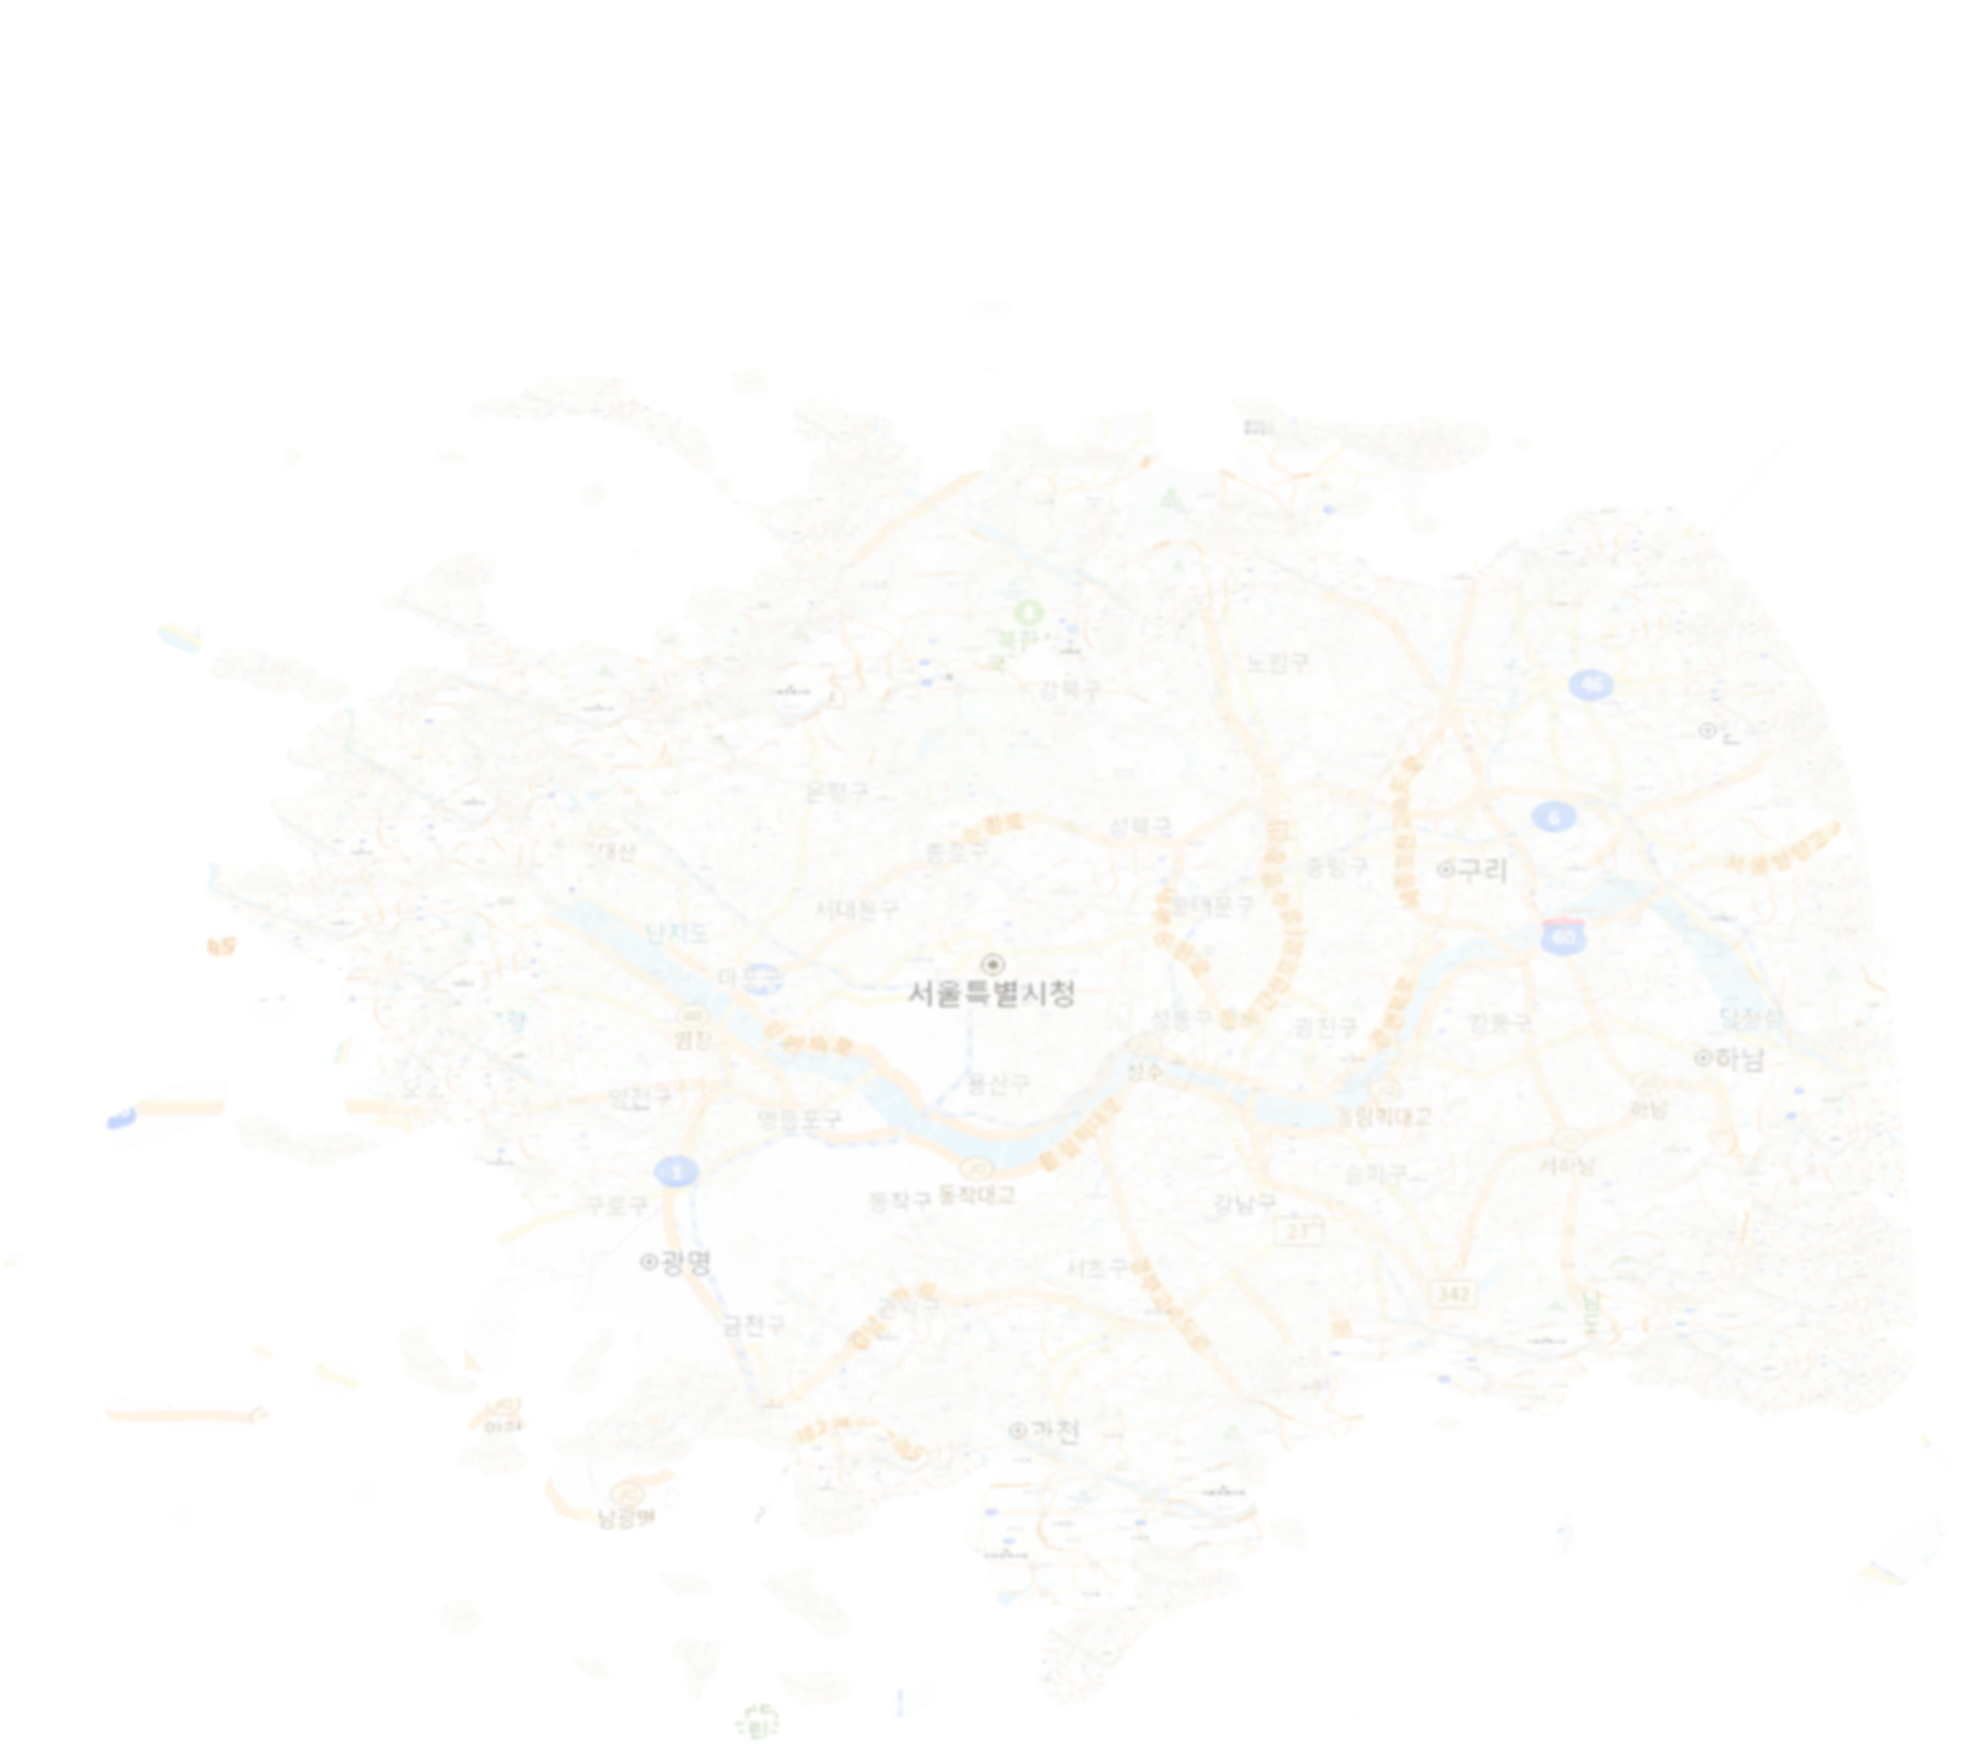
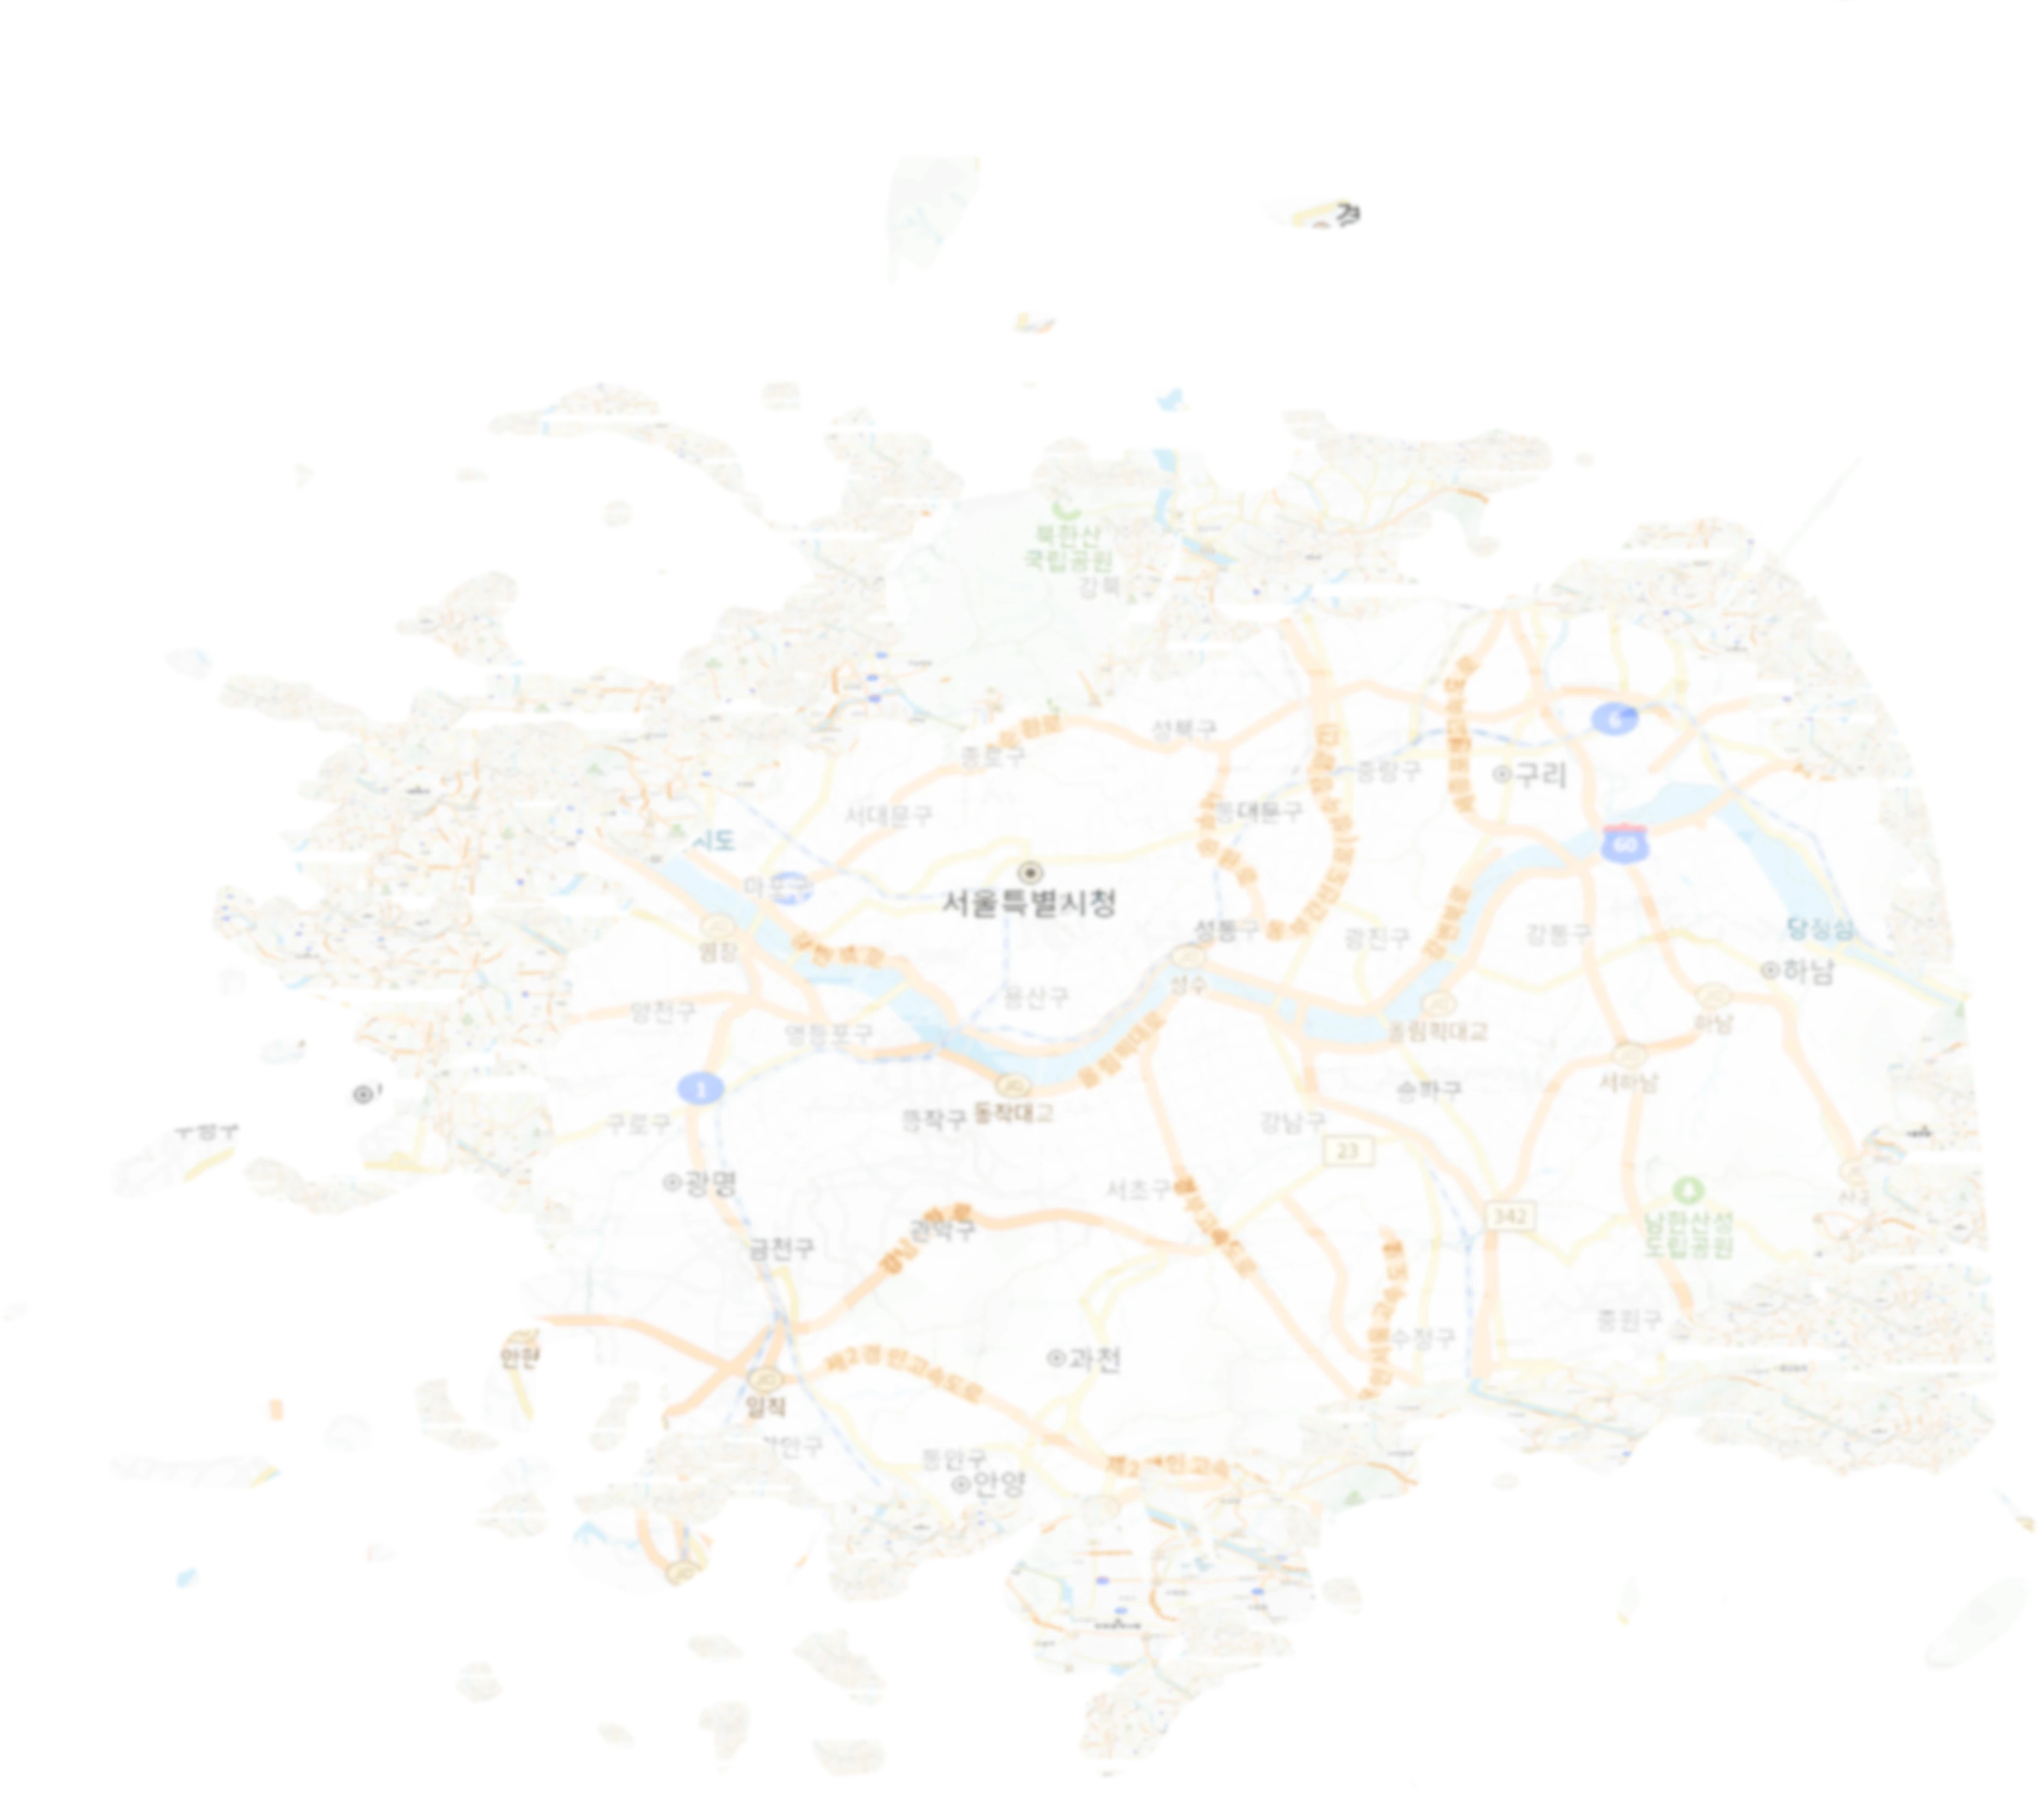
fix: 홈 화면 LCP 및 반응형 레이아웃 개선 (#284)
* style: HOME 페이지 반응형 레이아웃 조정

- 히어로 이미지 위치와 로딩 우선순위 조정
- 이미지 파일 용량 감축

* style: 홈 반응형 타이포그래피와 캐러셀 크기 조정

- sm 구간의 홈 섹션 타이포그래피 단계 추가
- 다가오는 버스킹 캐러셀에 sm 카드 수와 간격 설정 적용
- 공통 캐러셀 컴포넌트에 sm 반응형 perView와 gap 지원

diff --git a/src/components/carousel/embla-card-carousel.tsx b/src/components/carousel/embla-card-carousel.tsx
@@ -12,6 +12,14 @@ type ProgressVariant = 'thumb' | 'fill';
 
 export interface ResponsivePerView {
   base: number;
+  sm?: number;
+  md?: number;
+  lg?: number;
+}
+
+interface ResponsiveNumber {
+  base: number;
+  sm?: number;
   md?: number;
   lg?: number;
 }
@@ -38,7 +46,7 @@ export interface EmblaCardCarouselProps {
   slidesToScroll?: number;
   loop?: boolean;
 
-  gapPx?: number;
+  gapPx?: number | ResponsiveNumber;
 
   showProgress?: boolean;
   progressVariant?: ProgressVariant;
@@ -65,9 +73,10 @@ function normalizePerView(value: number) {
   return Math.max(1, Math.min(value, 12));
 }
 
-function useResponsivePerView(base: number, md: number, lg: number) {
+function useResponsivePerView(base: number, sm: number, md: number, lg: number) {
   const subscribe = useCallback((onStoreChange: () => void) => {
     const mediaQueries = [
+      window.matchMedia('(min-width: 36rem)'),
       window.matchMedia('(min-width: 48rem)'),
       window.matchMedia('(min-width: 64rem)'),
     ];
@@ -88,8 +97,12 @@ function useResponsivePerView(base: number, md: number, lg: number) {
       return md;
     }
 
+    if (window.matchMedia('(min-width: 36rem)').matches) {
+      return sm;
+    }
+
     return base;
-  }, [base, lg, md]);
+  }, [base, lg, md, sm]);
 
   return useSyncExternalStore(subscribe, getSnapshot, () => base);
 }
@@ -177,10 +190,16 @@ export function EmblaCardCarousel({
   );
 
   const safePerViewBase = normalizePerView(typeof perView === 'number' ? perView : perView.base);
-  const safePerViewMd = normalizePerView(typeof perView === 'number' ? perView : (perView.md ?? safePerViewBase));
+  const safePerViewSm = normalizePerView(typeof perView === 'number' ? perView : (perView.sm ?? safePerViewBase));
+  const safePerViewMd = normalizePerView(typeof perView === 'number' ? perView : (perView.md ?? safePerViewSm));
   const safePerViewLg = normalizePerView(typeof perView === 'number' ? perView : (perView.lg ?? safePerViewMd));
-  const safePerView = useResponsivePerView(safePerViewBase, safePerViewMd, safePerViewLg);
+  const safePerView = useResponsivePerView(safePerViewBase, safePerViewSm, safePerViewMd, safePerViewLg);
   const hasScrollable = totalSlides > safePerView;
+
+  const safeGapBase = typeof gapPx === 'number' ? gapPx : gapPx.base;
+  const safeGapSm = typeof gapPx === 'number' ? gapPx : (gapPx.sm ?? safeGapBase);
+  const safeGapMd = typeof gapPx === 'number' ? gapPx : (gapPx.md ?? safeGapSm);
+  const safeGapLg = typeof gapPx === 'number' ? gapPx : (gapPx.lg ?? safeGapMd);
 
   const thumbWidthPct
     = progressVariant === 'thumb'
@@ -218,15 +237,24 @@ export function EmblaCardCarousel({
     <section
       className={cn(
         'group relative w-full',
+        '[--carousel-gap:var(--carousel-gap-base)]',
         '[--carousel-per-view:var(--carousel-per-view-base)]',
+        'sm:[--carousel-gap:var(--carousel-gap-sm)]',
+        'sm:[--carousel-per-view:var(--carousel-per-view-sm)]',
+        'md:[--carousel-gap:var(--carousel-gap-md)]',
         'md:[--carousel-per-view:var(--carousel-per-view-md)]',
+        'lg:[--carousel-gap:var(--carousel-gap-lg)]',
         'lg:[--carousel-per-view:var(--carousel-per-view-lg)]',
         className,
       )}
       style={
         {
-          '--carousel-gap': `${gapPx}px`,
+          '--carousel-gap-base': `${safeGapBase}px`,
+          '--carousel-gap-sm': `${safeGapSm}px`,
+          '--carousel-gap-md': `${safeGapMd}px`,
+          '--carousel-gap-lg': `${safeGapLg}px`,
           '--carousel-per-view-base': String(safePerViewBase),
+          '--carousel-per-view-sm': String(safePerViewSm),
           '--carousel-per-view-md': String(safePerViewMd),
           '--carousel-per-view-lg': String(safePerViewLg),
         } as React.CSSProperties

diff --git a/src/app/(main)/_components/home-hero-section.tsx b/src/app/(main)/_components/home-hero-section.tsx
@@ -27,29 +27,27 @@ export function HomeHeroSection({ mapBgSrc, heroIllustSrc }: HomeHeroSectionProp
   };
 
   return (
-    <section className={`
-      w-full bg-[radial-gradient(circle_at_center,#FAFAFA_0%,#FFF7F2CC_100%)]
-    `}
-    >
+    <section className="w-full overflow-hidden bg-white">
       <MainLayout className={`
         relative z-10 px-5.25 pt-8 pb-16
         md:px-6 md:pt-14 md:pb-20
-        lg:flex lg:min-h-250 lg:items-center lg:py-0
+        lg:flex lg:min-h-190 lg:items-start lg:pt-28 lg:pb-24
       `}
       >
         <div className={`
           grid grid-cols-1 gap-8
-          lg:grid-cols-12 lg:items-center lg:gap-6
+          lg:grid-cols-12 lg:items-start lg:gap-0
         `}
         >
           <div className={`
             order-2
-            lg:order-1 lg:col-span-6
+            lg:order-1 lg:col-span-5 lg:pt-16
           `}
           >
             <h2 className={`
-              typo-title-b-1 leading-[1.15] font-bold tracking-[-0.02em]
-              text-gray-900
+              typo-title-b-4 text-gray-900
+              sm:typo-title-b-3
+              md:typo-title-b-1
             `}
             >
               <span className={`
@@ -69,7 +67,9 @@ export function HomeHeroSection({ mapBgSrc, heroIllustSrc }: HomeHeroSectionProp
             </h2>
 
             <p className={`
-              mt-6 typo-title-r-4 leading-[1.6] text-gray-700
+              mt-3 typo-caption-r-1 text-black
+              sm:typo-body-sb-3
+              md:mt-6 md:typo-title-r-4 md:text-gray-700
               lg:whitespace-nowrap
             `}
             >
@@ -78,7 +78,10 @@ export function HomeHeroSection({ mapBgSrc, heroIllustSrc }: HomeHeroSectionProp
 
             <form
               onSubmit={handleSubmit}
-              className="mt-10 w-full max-w-115.75"
+              className={`
+                mt-5 w-full max-w-115.75
+                md:mt-10
+              `}
             >
               <SearchInput
                 theme="white"
@@ -92,21 +95,22 @@ export function HomeHeroSection({ mapBgSrc, heroIllustSrc }: HomeHeroSectionProp
 
           <div className={`
             relative order-1
-            lg:order-2 lg:col-span-6
+            lg:order-2 lg:col-span-7
           `}
           >
             <div className={`
               relative h-80 w-full overflow-visible
               sm:h-105
               md:h-125
-              lg:h-180
+              lg:h-185
             `}
             >
               <Image
                 src={mapBgSrc}
                 alt=""
                 fill
-                priority
+                sizes="(max-width: 1023px) 100vw, 1200px"
+                quality={45}
                 className="object-contain opacity-50 blur-[2px]"
               />
 
@@ -117,7 +121,7 @@ export function HomeHeroSection({ mapBgSrc, heroIllustSrc }: HomeHeroSectionProp
               >
                 <div className={`
                   relative h-full w-full
-                  lg:h-185 lg:w-265
+                  lg:h-210 lg:w-320 lg:translate-x-12 lg:-translate-y-30
                 `}
                 >
                   <Image
@@ -125,6 +129,9 @@ export function HomeHeroSection({ mapBgSrc, heroIllustSrc }: HomeHeroSectionProp
                     alt="UNIBUSK 지도 일러스트"
                     fill
                     priority
+                    fetchPriority="high"
+                    sizes="(max-width: 1023px) 100vw, 1280px"
+                    quality={70}
                     className="object-contain"
                   />
                 </div>

diff --git a/src/app/(main)/_components/home-promo-section.tsx b/src/app/(main)/_components/home-promo-section.tsx
@@ -28,8 +28,22 @@ export function HomePromoSection({ ctaHref }: HomePromoSectionProps) {
       `}
       >
         <div className="text-center">
-          <h2 className="typo-title-sb-2 text-black">공연을 홍보해 보세요</h2>
-          <p className="mt-3.75 typo-title-r-4 text-gray-600">나의 공연 정보를 등록하고 홍보해 보세요</p>
+          <h2 className={`
+            typo-body-sb-1 text-black
+            sm:typo-title-b-5
+            md:typo-title-sb-2
+          `}
+          >
+            공연을 홍보해 보세요
+          </h2>
+          <p className={`
+            mt-2 typo-caption-r-1 text-gray-600
+            sm:typo-body-m-3
+            md:mt-3.75 md:typo-title-r-4
+          `}
+          >
+            나의 공연 정보를 등록하고 홍보해 보세요
+          </p>
         </div>
         <div
           className={cn(

diff --git a/src/app/(main)/_components/home-upcoming-busking-section.tsx b/src/app/(main)/_components/home-upcoming-busking-section.tsx
@@ -25,8 +25,22 @@ export function HomeUpcomingBuskingSection({
       `}
       >
         <div className="text-center">
-          <h2 className="typo-title-sb-2 text-black">{title}</h2>
-          <p className="mt-3.75 typo-title-r-4 break-keep text-gray-600">{tags.join(' ')}</p>
+          <h2 className={`
+            typo-body-sb-1 text-black
+            sm:typo-title-b-5
+            md:typo-title-sb-2
+          `}
+          >
+            {title}
+          </h2>
+          <p className={`
+            mt-2 typo-caption-r-1 break-keep text-gray-600
+            sm:typo-body-m-3
+            md:mt-3.75 md:typo-title-r-4
+          `}
+          >
+            {tags.join(' ')}
+          </p>
         </div>
 
         <div className={`

diff --git a/src/components/layout/footer.tsx b/src/components/layout/footer.tsx
@@ -38,14 +38,14 @@ export function Footer() {
                 alt="UNIBUSK"
                 width={112}
                 height={57}
-                className="md:h-[76px] md:w-[148px]"
+                className="md:h-19 md:w-37"
               />
             </Link>
 
             <div
               className={cn(
-                'mt-2 typo-caption-r-2 leading-[1.6] break-keep text-gray-400',
-                'md:mt-1 md:pl-4 md:leading-normal',
+                'mt-2 typo-caption-r-2 break-keep text-gray-400',
+                'md:mt-1 md:pl-4',
               )}
             >
               <p>버스킹의 모든 순간을 잇다, UNIBUSK</p>

diff --git a/src/app/(main)/_components/upcoming-busking-carousel.tsx b/src/app/(main)/_components/upcoming-busking-carousel.tsx
@@ -10,9 +10,9 @@ export function UpcomingBuskingCarousel() {
 
   return (
     <EmblaCardCarousel
-      perView={{ base: 2, md: 3, lg: 4 }}
+      perView={{ base: 2, sm: 2, md: 3, lg: 4 }}
       slidesToScroll={1}
-      gapPx={4.5}
+      gapPx={{ base: 4.5, sm: 24, md: 24, lg: 24 }}
       showArrows={true}
       showProgress={true}
       progressVariant="thumb"

diff --git a/src/styles/typography.css b/src/styles/typography.css
@@ -26,6 +26,13 @@
   letter-spacing: -0.011em;
 }
 
+@utility typo-title-b-4 {
+  font-size: var(--text-title-4);
+  line-height: 1.5;
+  font-weight: 700;
+  letter-spacing: -0.011em;
+}
+
 @utility typo-title-r-4 {
   font-size: var(--text-title-4);
   line-height: 1.5;
